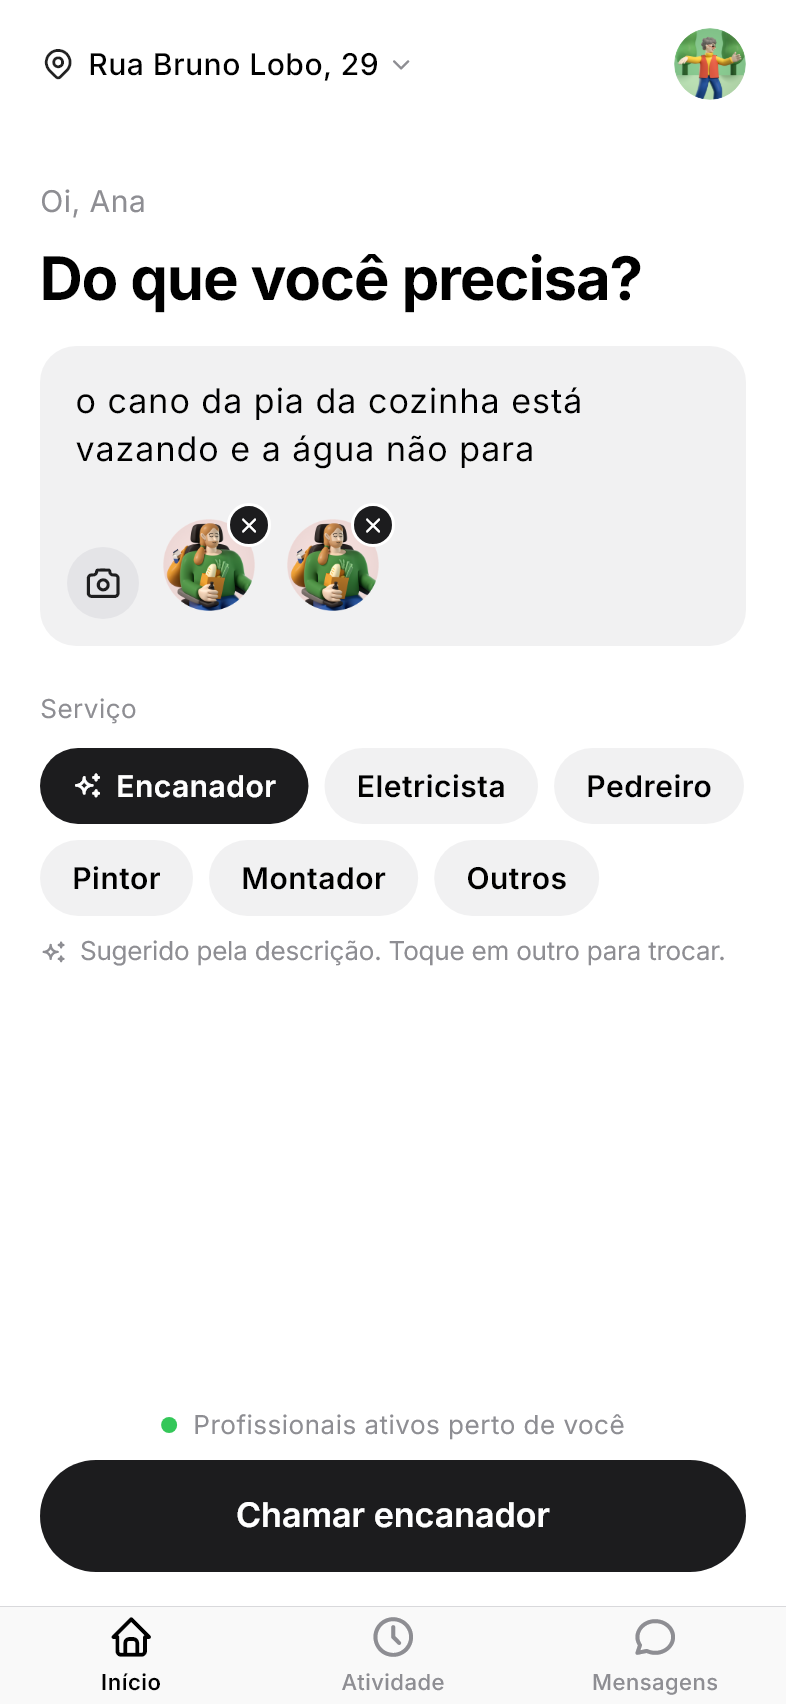
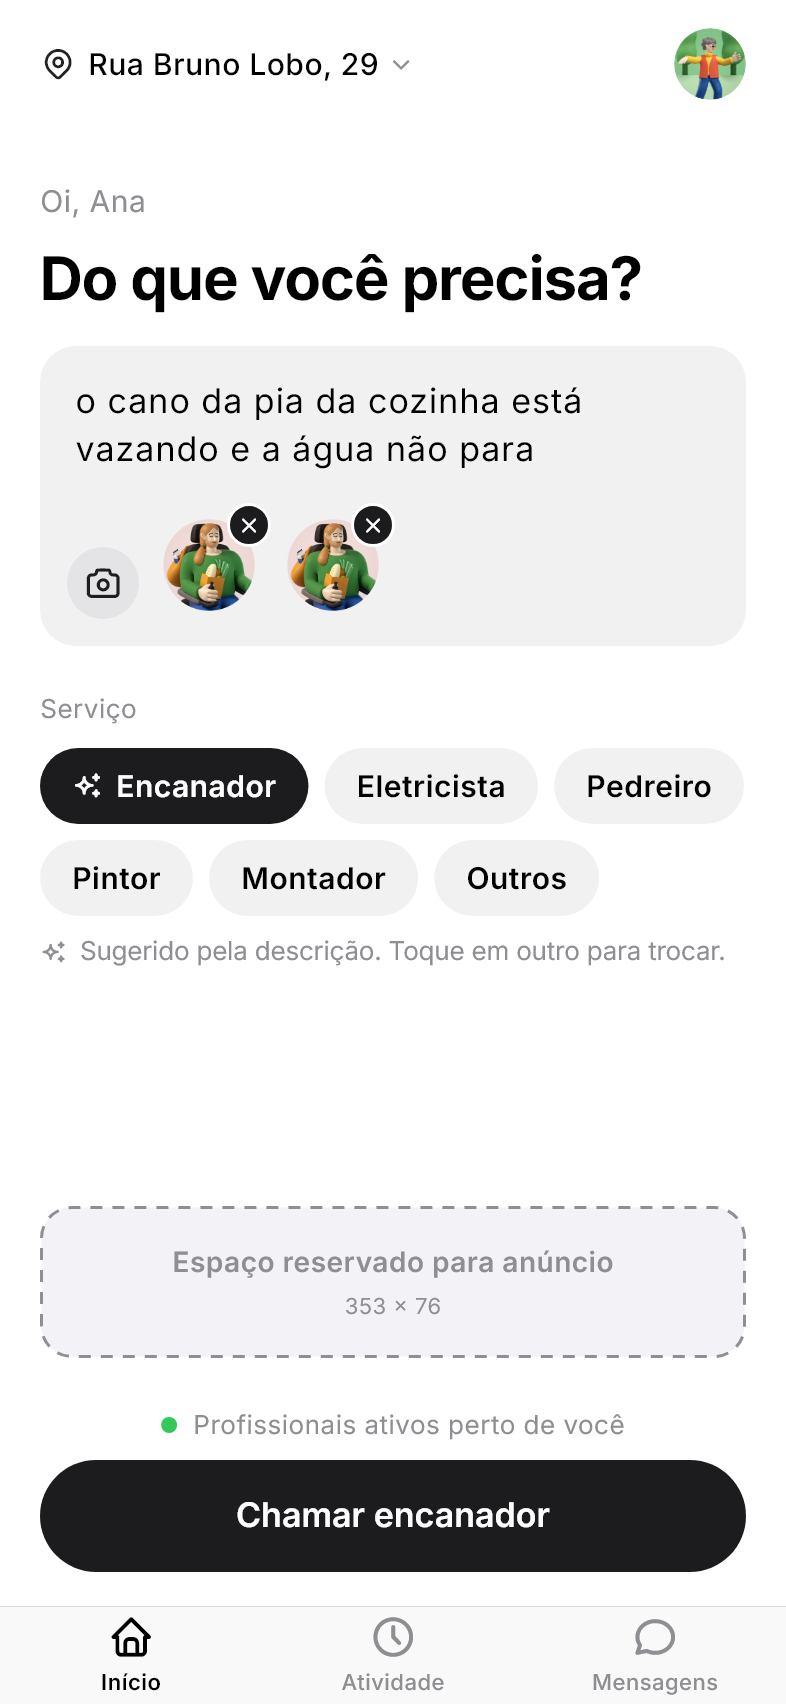
Espaço reservado para anúncio na Home e no Procurando

Changed region(s): [[0.2137, 0.7154, 0.7939, 0.7776]]

diff --git a/app/lib/features/cliente/chamar/procurando_page.dart b/app/lib/features/cliente/chamar/procurando_page.dart
@@ -9,6 +9,7 @@ import '../../../core/theme/tatu_texto.dart';
 import '../../../core/theme/tatu_theme.dart';
 import '../../../data/pedidos.dart';
 import '../../../shared/widgets/abas_cliente.dart';
+import '../../../shared/widgets/espaco_anuncio.dart';
 import '../../../shared/widgets/folha.dart';
 import '../../../shared/widgets/mapa_falso.dart';
 import '../abas.dart';
@@ -275,22 +276,51 @@ class _ProcurandoPageState extends State<ProcurandoPage>
         const SizedBox(height: 8),
         Text(texto, style: TatuTexto.corpo),
         const SizedBox(height: TatuMedidas.entreSecoes),
-        ClipRRect(
-          borderRadius: BorderRadius.circular(3),
-          child: LinearProgressIndicator(
-            value: _busca.value,
-            minHeight: 6,
-            color: TatuColors.action,
-            backgroundColor: TatuColors.trilho,
-          ),
-        ),
         if (expandindo) ...[
-          const SizedBox(height: TatuMedidas.entreItens),
-          const Text(
-            'Expandindo a busca para sua região…',
-            style: TatuTexto.nota,
+          const Row(
+            children: [
+              SizedBox(
+                width: 10,
+                height: 10,
+                child: DecoratedBox(
+                  decoration: BoxDecoration(
+                    color: TatuColors.online,
+                    shape: BoxShape.circle,
+                  ),
+                ),
+              ),
+              SizedBox(width: 10),
+              Expanded(
+                child: Text(
+                  'Expandindo a busca para sua região…',
+                  style: TextStyle(fontSize: 15, fontWeight: FontWeight.w600),
+                ),
+              ),
+            ],
           ),
+          const SizedBox(height: TatuMedidas.entreItens + 4),
         ],
+        // Três etapas da busca (o raio cresce a cada uma).
+        Row(
+          children: [
+            for (var i = 0; i < 3; i++) ...[
+              if (i > 0) const SizedBox(width: 6),
+              Expanded(
+                child: ClipRRect(
+                  borderRadius: BorderRadius.circular(3),
+                  child: LinearProgressIndicator(
+                    value: (_busca.value * 3 - i).clamp(0.0, 1.0),
+                    minHeight: 6,
+                    color: TatuColors.action,
+                    backgroundColor: TatuColors.trilho,
+                  ),
+                ),
+              ),
+            ],
+          ],
+        ),
+        const SizedBox(height: TatuMedidas.entreSecoes),
+        const EspacoAnuncio(),
         const SizedBox(height: TatuMedidas.entreSecoes),
         FilledButton(
           style: tatuBotaoSecundario(),

diff --git a/app/lib/shared/widgets/espaco_anuncio.dart b/app/lib/shared/widgets/espaco_anuncio.dart
@@ -1,0 +1,74 @@
+import 'package:flutter/material.dart';
+
+import '../../core/theme/tatu_colors.dart';
+import '../../core/theme/tatu_medidas.dart';
+
+/// Espaço reservado para anúncio (353 × 76). Por enquanto só o
+/// contorno tracejado, para mostrar onde o anúncio vai entrar.
+class EspacoAnuncio extends StatelessWidget {
+  const EspacoAnuncio({super.key});
+
+  static const altura = 76.0;
+
+  @override
+  Widget build(BuildContext context) {
+    return Semantics(
+      label: 'Espaço reservado para anúncio',
+      child: ExcludeSemantics(
+        child: CustomPaint(
+          painter: const _Tracejado(),
+          child: const SizedBox(
+            height: altura,
+            width: double.infinity,
+            child: Column(
+              mainAxisAlignment: MainAxisAlignment.center,
+              children: [
+                Text(
+                  'Espaço reservado para anúncio',
+                  style: TextStyle(
+                    fontSize: 14,
+                    fontWeight: FontWeight.w600,
+                    color: TatuColors.textSecondary,
+                  ),
+                ),
+                SizedBox(height: 4),
+                Text(
+                  '353 × 76',
+                  style: TextStyle(
+                    fontSize: 11,
+                    color: TatuColors.textSecondary,
+                  ),
+                ),
+              ],
+            ),
+          ),
+        ),
+      ),
+    );
+  }
+}
+
+class _Tracejado extends CustomPainter {
+  const _Tracejado();
+
+  @override
+  void paint(Canvas canvas, Size size) {
+    final rrect = RRect.fromRectAndRadius(
+      Offset.zero & size,
+      const Radius.circular(TatuMedidas.raioCampo),
+    ).deflate(0.75);
+    canvas.drawRRect(rrect, Paint()..color = TatuColors.surfaceGrouped);
+    final tinta = Paint()
+      ..color = TatuColors.textSecondary
+      ..style = PaintingStyle.stroke
+      ..strokeWidth = 1.5;
+    for (final m in (Path()..addRRect(rrect)).computeMetrics()) {
+      for (var d = 0.0; d < m.length; d += 11) {
+        canvas.drawPath(m.extractPath(d, d + 6), tinta);
+      }
+    }
+  }
+
+  @override
+  bool shouldRepaint(_Tracejado oldDelegate) => false;
+}

diff --git a/docs/fluxo/index.html b/docs/fluxo/index.html
@@ -240,8 +240,8 @@ const TELAS_RAW = [
   ['c09','C09','Confirme o endereço (mapa)','pedir','app','docs/fluxo/app/endereco-mapa.png',["Mapa ilustrativo até termos o serviço de mapas","Casa e Trabalho substituem o salvo do mesmo tipo"]],
   ['c08b','C08b','Localização desativada','pedir','app','docs/fluxo/app/localizacao-desativada.png',["No app, “Abrir Ajustes” ainda mostra “em breve”"]],
 
-  ['c10','C10','Procurando · início','procurar','app','docs/fluxo/app/procurando.png',["O pedido vai ao mesmo tempo para todos os ativos por perto","O “x” sai e a busca continua em segundo plano (aparece na Atividade)"]],
-  ['c11','C11','Procurando · expandindo','procurar','app','docs/fluxo/app/procurando-expandindo.png',["Aos 60 s o raio aumenta sozinho"]],
+  ['c10','C10','Procurando · início','procurar','app','docs/fluxo/app/procurando.png',["O pedido vai ao mesmo tempo para todos os ativos por perto","O “x” sai e a busca continua em segundo plano (aparece na Atividade)","Espaço reservado para anúncio (353 × 76)"]],
+  ['c11','C11','Procurando · expandindo','procurar','app','docs/fluxo/app/procurando-expandindo.png',["Aos 60 s o raio aumenta sozinho","Espaço reservado para anúncio (353 × 76)"]],
   ['c12','C12','Procurando · ninguém ativo','procurar','app','docs/fluxo/app/procurando-ninguem.png',["Aos 90 s sem ninguém; a busca continua em segundo plano (válido por 1 hora)"]],
   ['c13','C13','Profissional encontrado','procurar','desenho', U+'03 - Procurar profissional/13-profissional-encontrado.svg',["Ver outro profissional → próximo da fila, mesma tela","Prazo para responder acaba → próximo da fila"]],
   ['c14','C14','Perfil do profissional · topo','procurar','desenho', U+'03 - Procurar profissional/14-perfil-profissional-topo.svg'],

diff --git a/app/lib/features/cliente/home_page.dart b/app/lib/features/cliente/home_page.dart
@@ -14,6 +14,7 @@ import '../../data/perfil.dart';
 import '../../data/servicos.dart';
 import '../../data/sugestao_servico.dart';
 import '../../shared/widgets/abas_cliente.dart';
+import '../../shared/widgets/espaco_anuncio.dart';
 import '../../shared/widgets/avatar_usuario.dart';
 import '../../shared/widgets/folha.dart';
 import '../../shared/widgets/lista_agrupada.dart';
@@ -251,6 +252,8 @@ class _HomeClientePageState extends State<HomeClientePage> {
                   child: Column(
                     crossAxisAlignment: CrossAxisAlignment.stretch,
                     children: [
+                      const EspacoAnuncio(),
+                      const SizedBox(height: TatuMedidas.entreSecoes),
                       const Row(
                         mainAxisAlignment: MainAxisAlignment.center,
                         children: [

diff --git a/CLAUDE.md b/CLAUDE.md
@@ -64,7 +64,7 @@ Publicado em https://claude.ai/artifact/UbvPYpEqyP5sWj9cbtvT7B. Fonte: `docs/flu
   - `core/theme/tatu_medidas.dart` (`TatuMedidas`): margem 20 (telas internas, Home, Perfil, folhas) · margemCadastro 24 (entrada/cadastro) · topo 20 · base 24 · entreItens 12 · entreSecoes 24 · raioCartao 18 · raioCampo 16 · raioOpcao 22 · raioFolha 30 · alturaBotao 56 · alturaCampo 62 · alturaBusca 48 · alturaChip 38 · alturaLinha 52.
   - `core/theme/tatu_texto.dart` (`TatuTexto`): tituloFolha 22 · corpo 15 (folhas, estados vazios) · detalhe 15 cinza (linhas, "Oi, Ana") · nota 13 cinza (avisos/dicas) · secao 13 maiúsculas.
   - Botão secundário: `tatuBotaoSecundario()`.
-- **Componentes únicos** (`shared/widgets/`): `TelaInterna` (topo + margens de toda tela interna), `CadastroScaffold` (telas de cadastro; `notaBotao`, `passo` com `BarraPassos`, `etiquetaPasso`, `topo`, `voltar`, `notaAcimaBotao`, `link`/`linkAzul`, `botaoConteudo`), `ProgressoCadastro` (barra do cadastro do profissional), `EstadoVazio`, `mostrarFolha`/`AlcaFolha`/`confirmar` (folhas; com ícone de atenção e `destacarCancelar` para a opção segura em cima), `LinhaIcone`/`DivisorLinha`, `GrupoLista`/`ItemLista`, `GrupoCartao`/`LinhaInterruptor` (cartão agrupado com interruptores), `TatuField`, `TatuChip` (`iconeFixo`, `pequeno` para botões em cartões), `CampoBusca`, `BotaoTracejado`, `TopoTela`, `AbasCliente`, `Segmento`, `Estrelas`, `AvatarIniciais`, `AvatarUsuario`/`AvatarComAro` (foto ou avatar da pessoa logada), `mostrarAvisoTopo` (aviso escuro de sucesso no topo), `TelaPermissao`/`IconePermissao` (permissão negada ou ação bloqueada; botão principal e cor de aviso configuráveis), `CampoCelular` (BR +55 + celular formatado), `CartaoBotao` (ação centralizada em cartão: Sair, Excluir conta). `OpcaoSelecionavel`/`BolinhaEscolha` (cartão de escolha única com borda preta), `LinkAzul`, `LinhaSimples` (texto + seta), `TelaPermissaoCorpo` (ícone + título + texto de tela cheia). `CartaoAcao`/`IconeCirculo` (cartão branco com ícone, título, detalhe e seta). `LinhaDoTempo`/`SeloVerde` (etapas do pedido e selo de situação), `LinhaDoTempoHorizontal`/`SeloPreto` (status em andamento na Atividade), `LinhaRotuloValor` (rótulo cinza + valor, Total em destaque). Abas do cliente: `AbasDoCliente`/`irParaAba` em `features/cliente/abas.dart`; do profissional (3; o Perfil abre pela foto da Home): `AbasDoProfissional` em `features/profissional/abas.dart`. Título grande de aba: `TatuTexto.tituloGrande`. Chat: `TelaChat`/`BalaoChat`/`BarraMensagem` (câmera, campo e botão enviar)/`CartaoPedidoChat` (`rotulo`)/`NotaChat`/`ConversaEncerrada`/`LinhaConversa` (linha da lista de Mensagens, com `selo`) em `shared/widgets/chat.dart`. Título de grupo em lista: `TatuTexto.grupo`. Folha de opções: `FolhaOpcoes` (`fechar`); pergunta com 3 saídas: `perguntar` (bool?). Mapa ilustrativo: `MapaFalso`. Estrelas para escolher nota: `EstrelasEscolha`. Ação com ícone no topo: `acaoIcone` em `TelaInterna`. Botão destrutivo: `tatuBotaoPerigo()`; com contorno: `tatuBotaoContorno()`. Nota com ícone: `NotaIcone`; item ícone+título+texto: `ItemVantagem` (`fundo` = quadrado); círculo grande de resultado: `IconeResultado`; lista do que passou/falta: `Checklist`/`ItemChecklist`; nome com selo azul: `NomeVerificado`; pílula cinza com ícone: `EtiquetaCinza`. Chip apagado: `TatuChip(desabilitado:)`. Folha com textos à esquerda e nota: `perguntar(esquerda:, nota:)`; com aviso amarelo: `confirmar(aviso:)`; folha cinza: `mostrarFolha(fundo:)`. Linha rótulo+valor com ✓ ou cadeado: `LinhaDado` (grupo_cartao.dart); ícone+texto do que acontece: `LinhaConsequencia` (nota_icone.dart). Valor em reais: `reais()` em `shared/formatadores.dart`. Ajuda (cliente e profissional): telas em `features/cliente/ajuda/` com `conteudo:` (`conteudoCliente`/`conteudoProfissional`). Profissional: dados em `data/profissional.dart` (`profissional.demo()` para demonstração). Tela nova reaproveita esses; se precisar de algo novo que se repete, vira componente aqui.
+- **Componentes únicos** (`shared/widgets/`): `TelaInterna` (topo + margens de toda tela interna), `CadastroScaffold` (telas de cadastro; `notaBotao`, `passo` com `BarraPassos`, `etiquetaPasso`, `topo`, `voltar`, `notaAcimaBotao`, `link`/`linkAzul`, `botaoConteudo`), `ProgressoCadastro` (barra do cadastro do profissional), `EstadoVazio`, `mostrarFolha`/`AlcaFolha`/`confirmar` (folhas; com ícone de atenção e `destacarCancelar` para a opção segura em cima), `LinhaIcone`/`DivisorLinha`, `GrupoLista`/`ItemLista`, `GrupoCartao`/`LinhaInterruptor` (cartão agrupado com interruptores), `TatuField`, `TatuChip` (`iconeFixo`, `pequeno` para botões em cartões), `CampoBusca`, `BotaoTracejado`, `TopoTela`, `AbasCliente`, `Segmento`, `Estrelas`, `AvatarIniciais`, `AvatarUsuario`/`AvatarComAro` (foto ou avatar da pessoa logada), `mostrarAvisoTopo` (aviso escuro de sucesso no topo), `TelaPermissao`/`IconePermissao` (permissão negada ou ação bloqueada; botão principal e cor de aviso configuráveis), `CampoCelular` (BR +55 + celular formatado), `CartaoBotao` (ação centralizada em cartão: Sair, Excluir conta). `OpcaoSelecionavel`/`BolinhaEscolha` (cartão de escolha única com borda preta), `LinkAzul`, `LinhaSimples` (texto + seta), `TelaPermissaoCorpo` (ícone + título + texto de tela cheia). `CartaoAcao`/`IconeCirculo` (cartão branco com ícone, título, detalhe e seta). `LinhaDoTempo`/`SeloVerde` (etapas do pedido e selo de situação), `LinhaDoTempoHorizontal`/`SeloPreto` (status em andamento na Atividade), `LinhaRotuloValor` (rótulo cinza + valor, Total em destaque). Abas do cliente: `AbasDoCliente`/`irParaAba` em `features/cliente/abas.dart`; do profissional (3; o Perfil abre pela foto da Home): `AbasDoProfissional` em `features/profissional/abas.dart`. Título grande de aba: `TatuTexto.tituloGrande`. Chat: `TelaChat`/`BalaoChat`/`BarraMensagem` (câmera, campo e botão enviar)/`CartaoPedidoChat` (`rotulo`)/`NotaChat`/`ConversaEncerrada`/`LinhaConversa` (linha da lista de Mensagens, com `selo`) em `shared/widgets/chat.dart`. Título de grupo em lista: `TatuTexto.grupo`. Folha de opções: `FolhaOpcoes` (`fechar`); pergunta com 3 saídas: `perguntar` (bool?). Mapa ilustrativo: `MapaFalso`. Estrelas para escolher nota: `EstrelasEscolha`. Ação com ícone no topo: `acaoIcone` em `TelaInterna`. Botão destrutivo: `tatuBotaoPerigo()`; com contorno: `tatuBotaoContorno()`. Nota com ícone: `NotaIcone`; item ícone+título+texto: `ItemVantagem` (`fundo` = quadrado); círculo grande de resultado: `IconeResultado`; lista do que passou/falta: `Checklist`/`ItemChecklist`; nome com selo azul: `NomeVerificado`; pílula cinza com ícone: `EtiquetaCinza`. Chip apagado: `TatuChip(desabilitado:)`. Folha com textos à esquerda e nota: `perguntar(esquerda:, nota:)`; com aviso amarelo: `confirmar(aviso:)`; folha cinza: `mostrarFolha(fundo:)`. Linha rótulo+valor com ✓ ou cadeado: `LinhaDado` (grupo_cartao.dart); ícone+texto do que acontece: `LinhaConsequencia` (nota_icone.dart). Espaço de anúncio: `EspacoAnuncio`. Valor em reais: `reais()` em `shared/formatadores.dart`. Ajuda (cliente e profissional): telas em `features/cliente/ajuda/` com `conteudo:` (`conteudoCliente`/`conteudoProfissional`). Profissional: dados em `data/profissional.dart` (`profissional.demo()` para demonstração). Tela nova reaproveita esses; se precisar de algo novo que se repete, vira componente aqui.
 - Valor novo só entra no arquivo de medidas/textos, nunca direto na tela.
 
 ## Como trabalhar

diff --git a/PROGRESSO.md b/PROGRESSO.md
@@ -76,6 +76,7 @@ Próxima tela: Gustavo envia a referência. Construir **uma tela por vez, junto 
 - [x] Ajuda do profissional: as telas da Ajuda do cliente recebem um `ConteudoAjuda` (`conteudoCliente` / `conteudoProfissional` em `data/ajuda.dart`): assuntos, perguntas, artigos (Quando recebo, Taxa), “Ver meus ganhos” abre Ganhos, Sobre o que é?, Qual chamado?, chat com o suporte. Abre pelo Perfil e pelas opções do chat
 - [x] Notificações do profissional (`perfil/notificacoes_profissional_page.dart`, dados em `data/notificacoes_profissional.dart`): pedido de permissão na 1ª vez, chamados/ganhos/extras, desligar novo chamado com confirmação, desativadas no celular, Som do novo chamado (Alerta Tatu, Sino, Buzina, Padrão — `assets/sons/`, gerados aqui; vibrar; ouvir). O Novo chamado toca o som escolhido
 - [x] Dados da conta do profissional (`perfil/dados_conta_profissional_page.dart`): dados do documento com cadeado (folha “vem do documento” → câmera), contato da conta, Encerrar perfil profissional → encerrado → modo cliente, Excluir conta bloqueado com valor a receber. `LinhaDado` e `LinhaConsequencia` viraram componentes
+- [x] Espaço reservado para anúncio (`EspacoAnuncio`, 353 × 76, tracejado) na Home do cliente e no Procurando; Procurando com a barra em 3 etapas e “Expandindo…” com o ponto verde
 - Falta do profissional: cobrar o cliente, avaliar o cliente
 - [ ] P6–P7 Home (primeira vez, offline, online)
 - [ ] P8 Novo chamado
